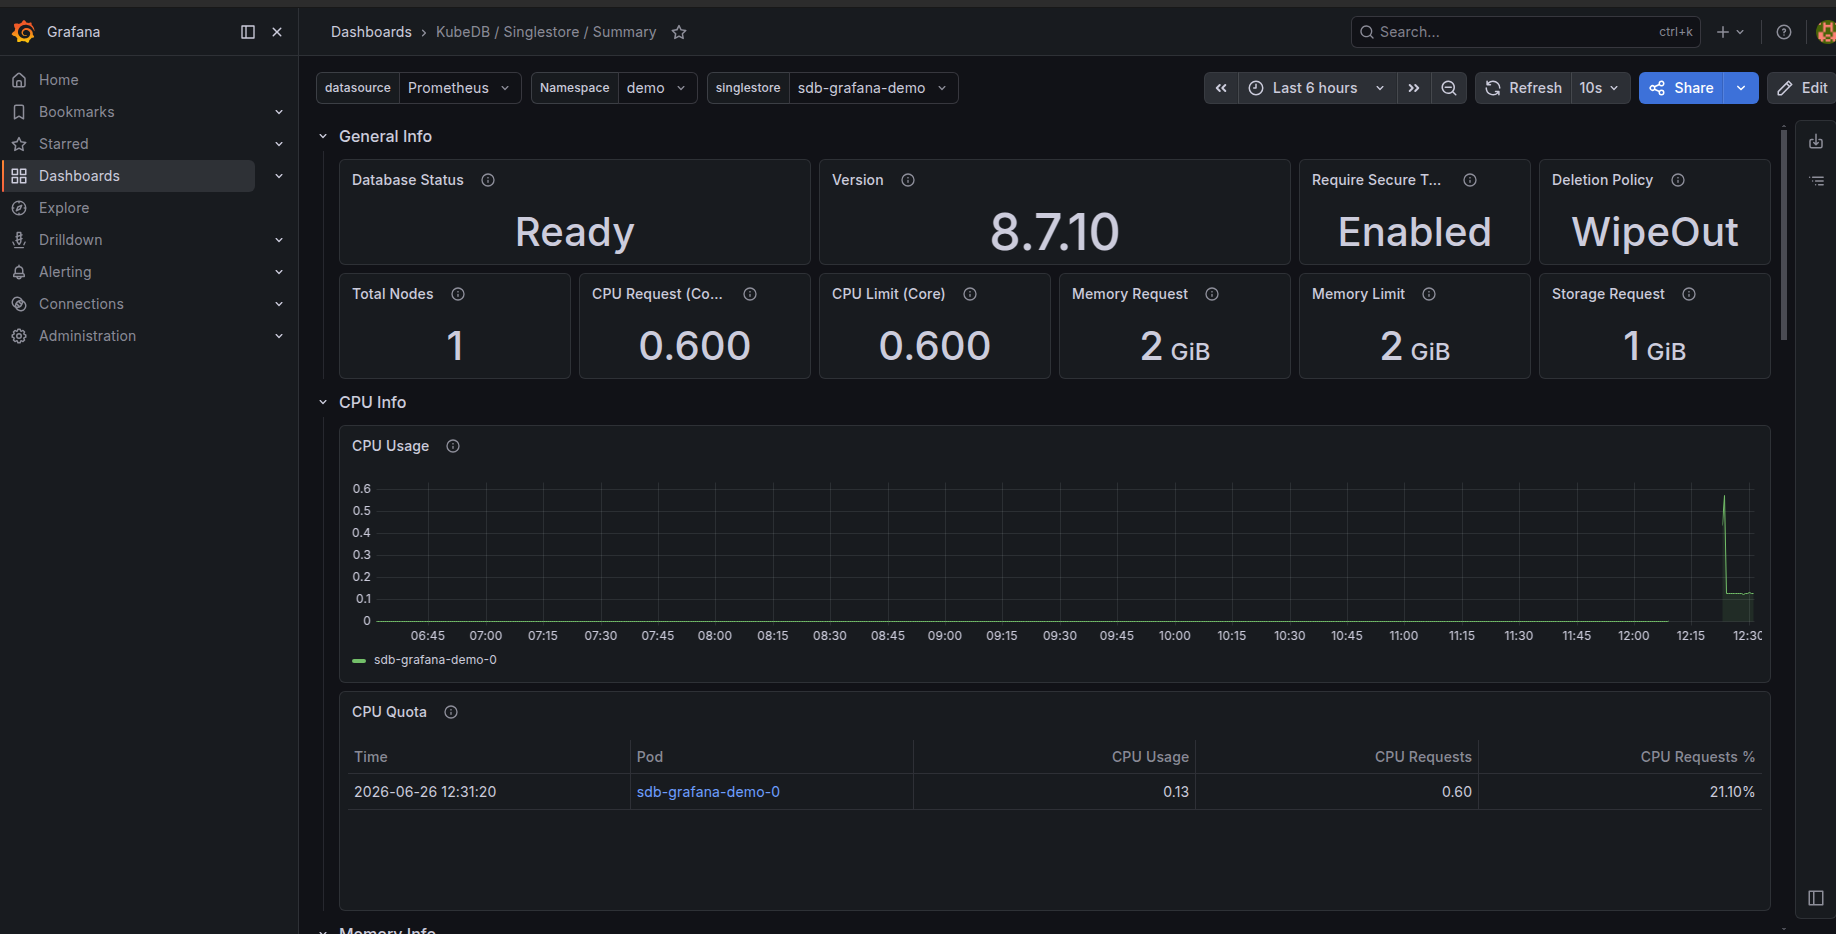
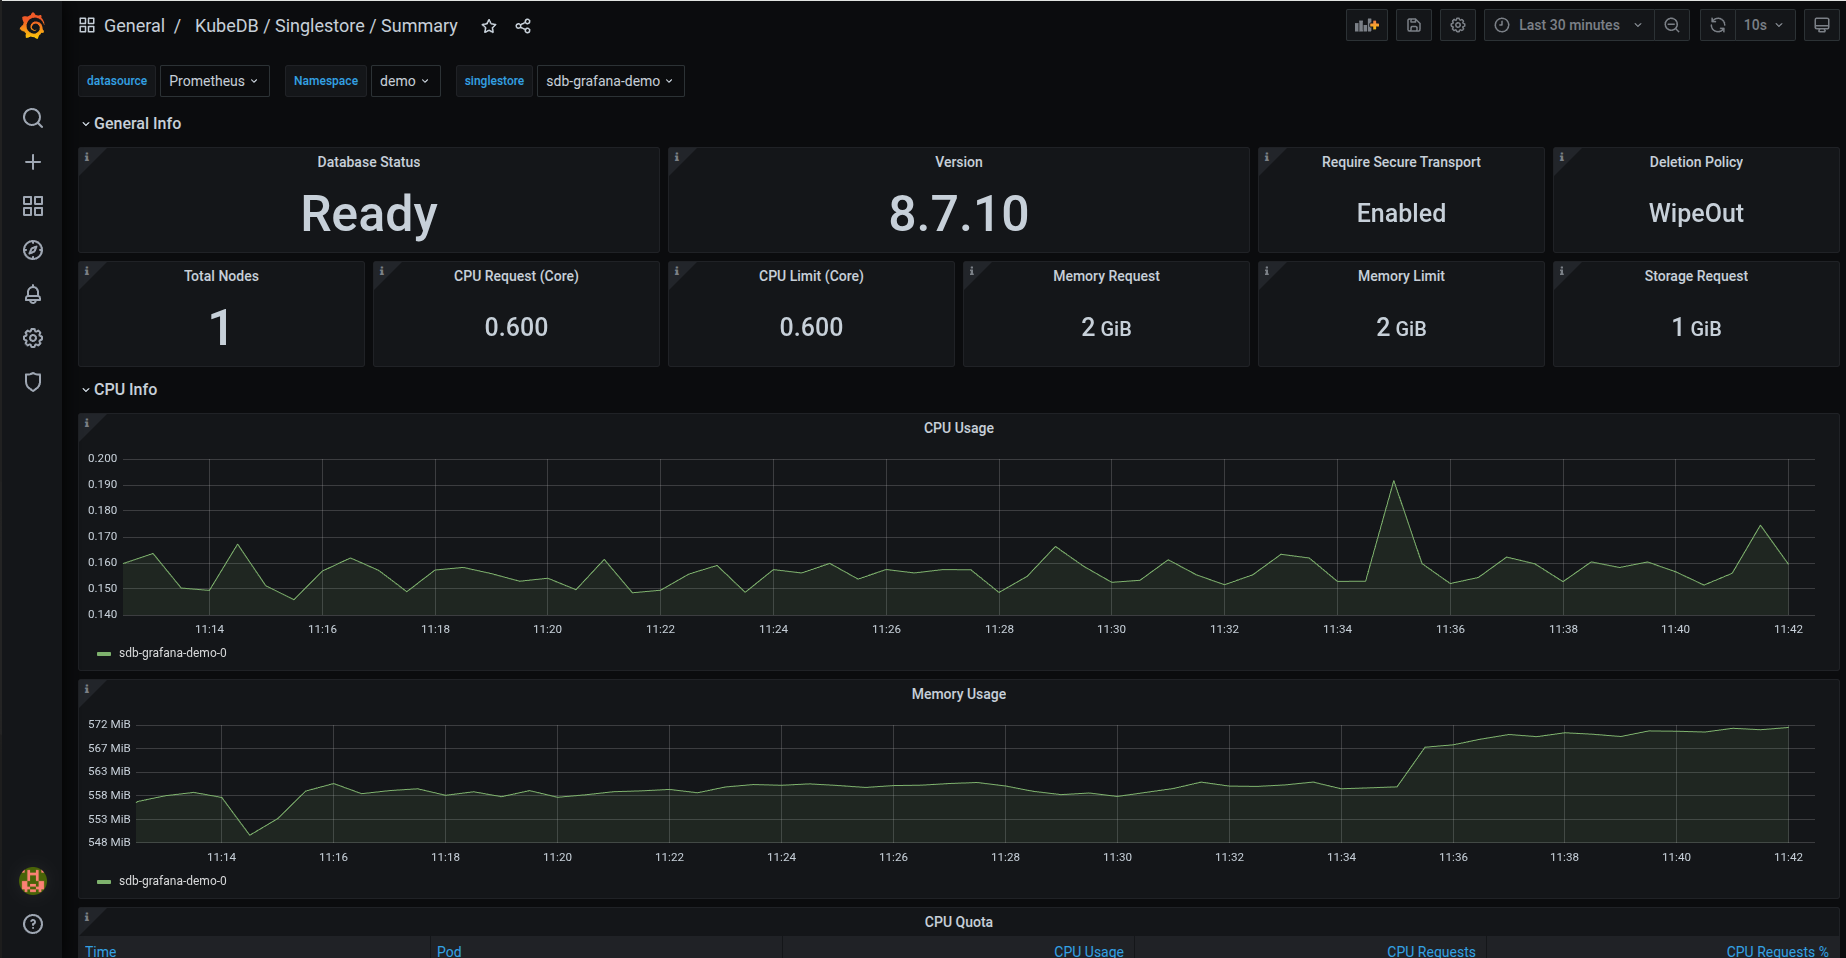
singlestore,percona review

diff --git a/docs/guides/percona-xtradb/monitoring/grafana-dashboard.md b/docs/guides/percona-xtradb/monitoring/grafana-dashboard.md
@@ -5,7 +5,7 @@ menu:
     identifier: guides-perconaxtradb-grafana-dashboard
     name: Grafana Dashboard
     parent: guides-perconaxtradb-monitoring
-    weight: 25
+    weight: 40
 menu_name: docs_{{ .version }}
 section_menu_id: guides
 ---